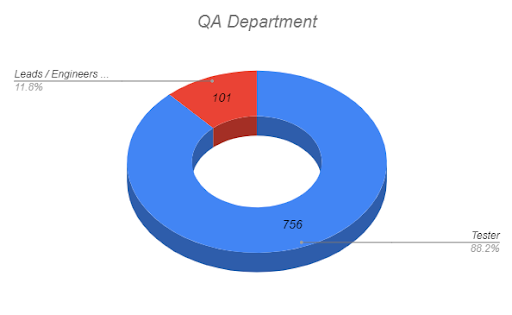
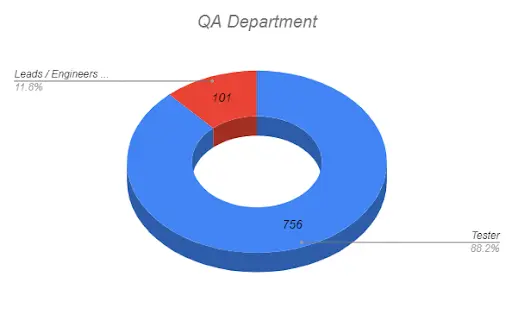
heavy image optimization

diff --git a/src/data/projects.ts b/src/data/projects.ts
@@ -75,12 +75,12 @@ export const projects = [
 			"Monedas API es una aplicación robusta y dinámica desarrollada con FastAPI, que proporciona tasas de cambio de divisas en tiempo real mediante extracción de datos de sitios web financieros. Se centra en tasas de cambio en Argentina, incluyendo USD (blue, oficial, MEP, CCL), Euro, Real Brasileño y más. Desplegada en un servidor HTTP, ofrece acceso remoto a través de solicitudes RESTful.",
 		mobileImages:
 			[
-				`/assets/images/projects/monedasapi/json.png`,
+				`/assets/images/projects/monedasapi/json.webp`,
 			],
 		desktopImages:
 			[
-				`/assets/images/projects/monedasapi/mac.png`,
-				`/assets/images/projects/monedasapi/architecturediagram.png`
+				`/assets/images/projects/monedasapi/mac.webp`,
+				`/assets/images/projects/monedasapi/architecturediagram.webp`
 			],
 		links: [
 			{
